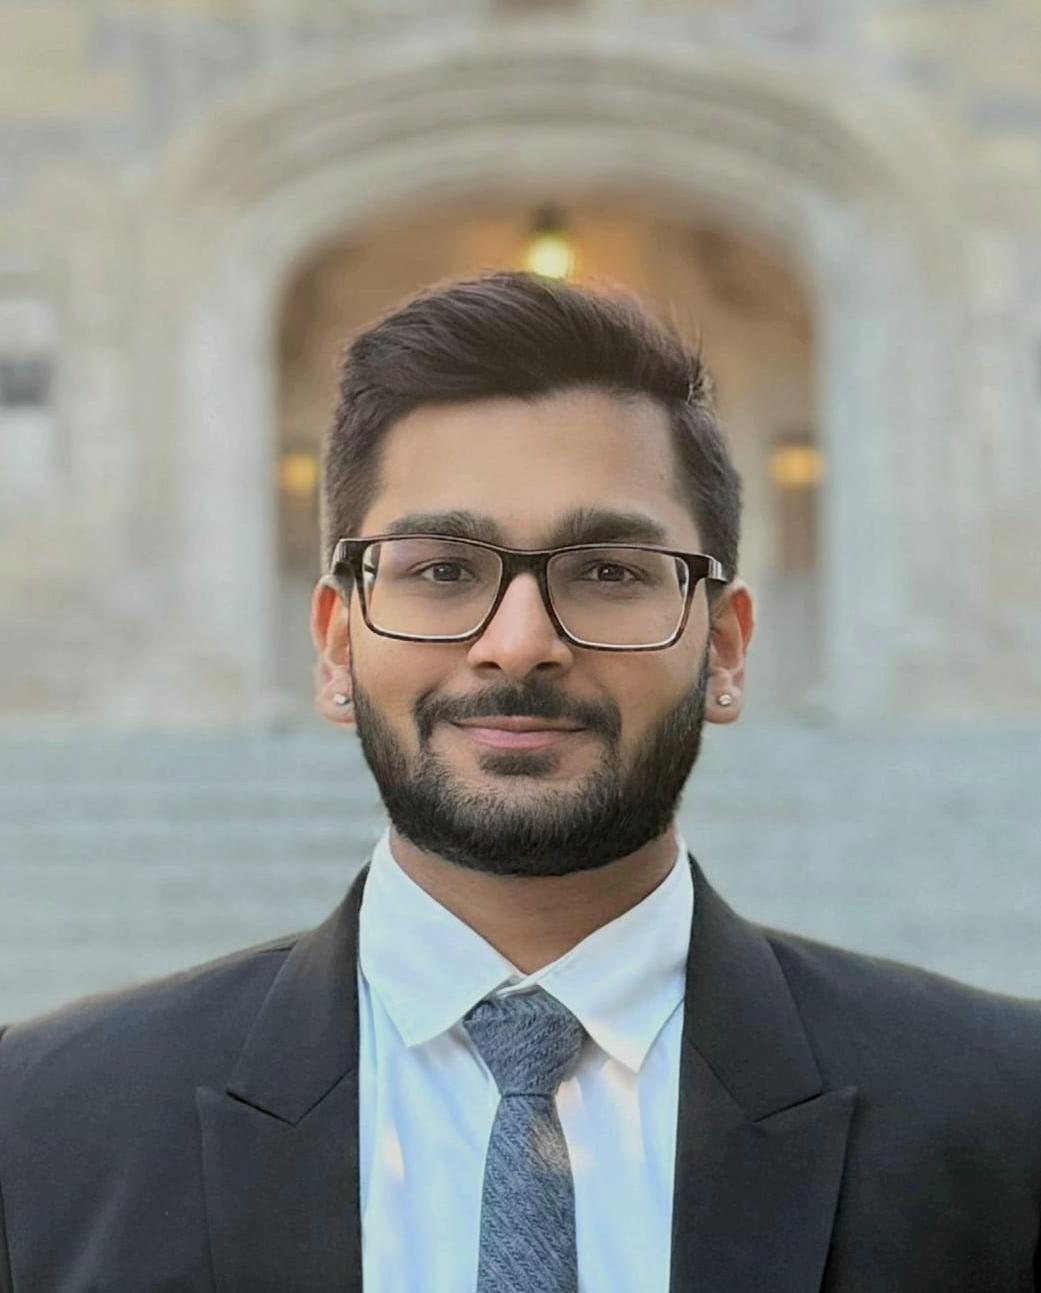
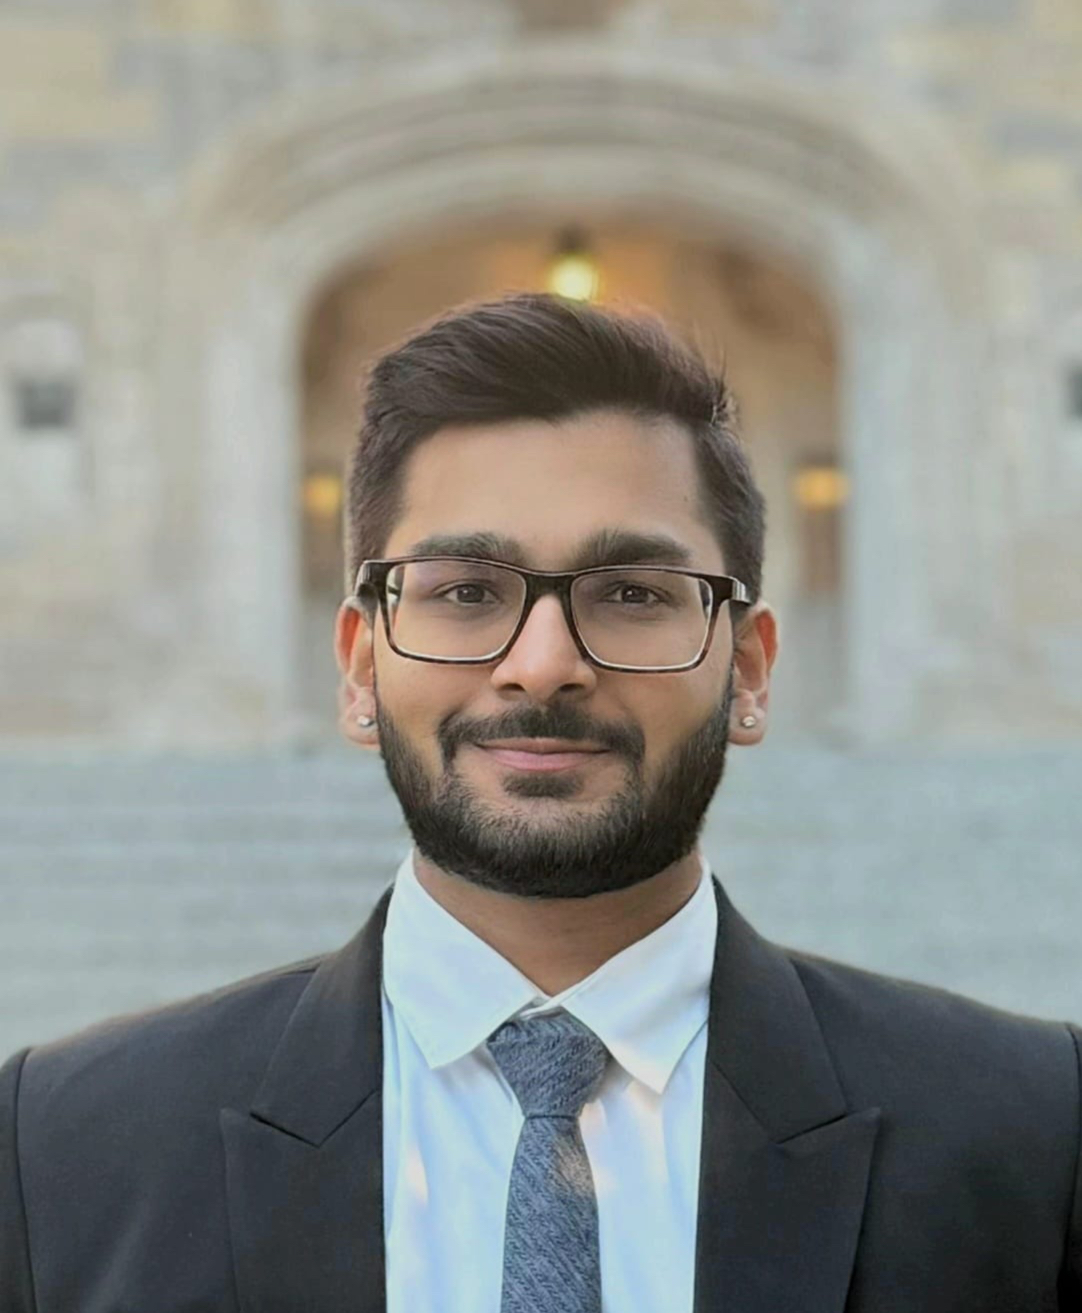
Portrait updated

diff --git a/index.html b/index.html
@@ -11,6 +11,7 @@
   <meta property="og:description" content="MS CS Indiana University. Building intelligent, scalable systems." />
   <meta property="og:type" content="website" />
   <title>Udit Agarwal — Software Engineer & AI/ML</title>
+  <link rel="icon" type="image/x-icon" href="/favicon.ico" />
   <link rel="preconnect" href="https://fonts.googleapis.com" />
   <link rel="preconnect" href="https://fonts.gstatic.com" crossorigin />
   <link href="https://fonts.googleapis.com/css2?family=Unbounded:wght@200;300;400;500;700;900&family=Libre+Baskerville:ital,wght@0,400;0,700;1,400&family=Fragment+Mono:ital@0;1&display=swap" rel="stylesheet" />
